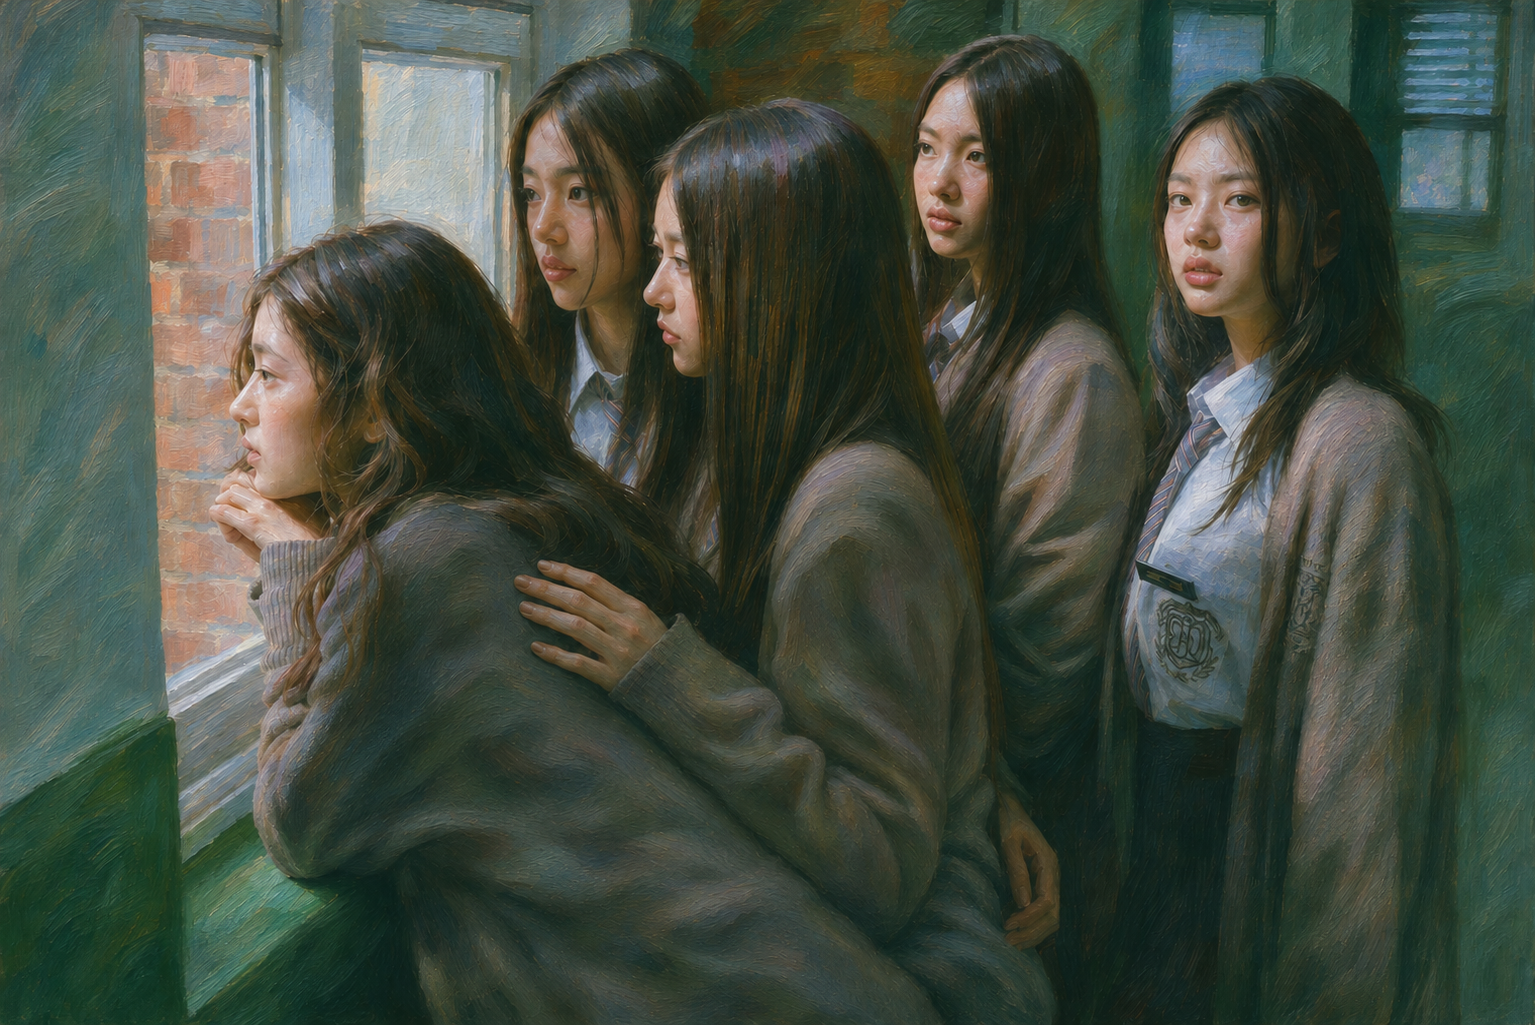
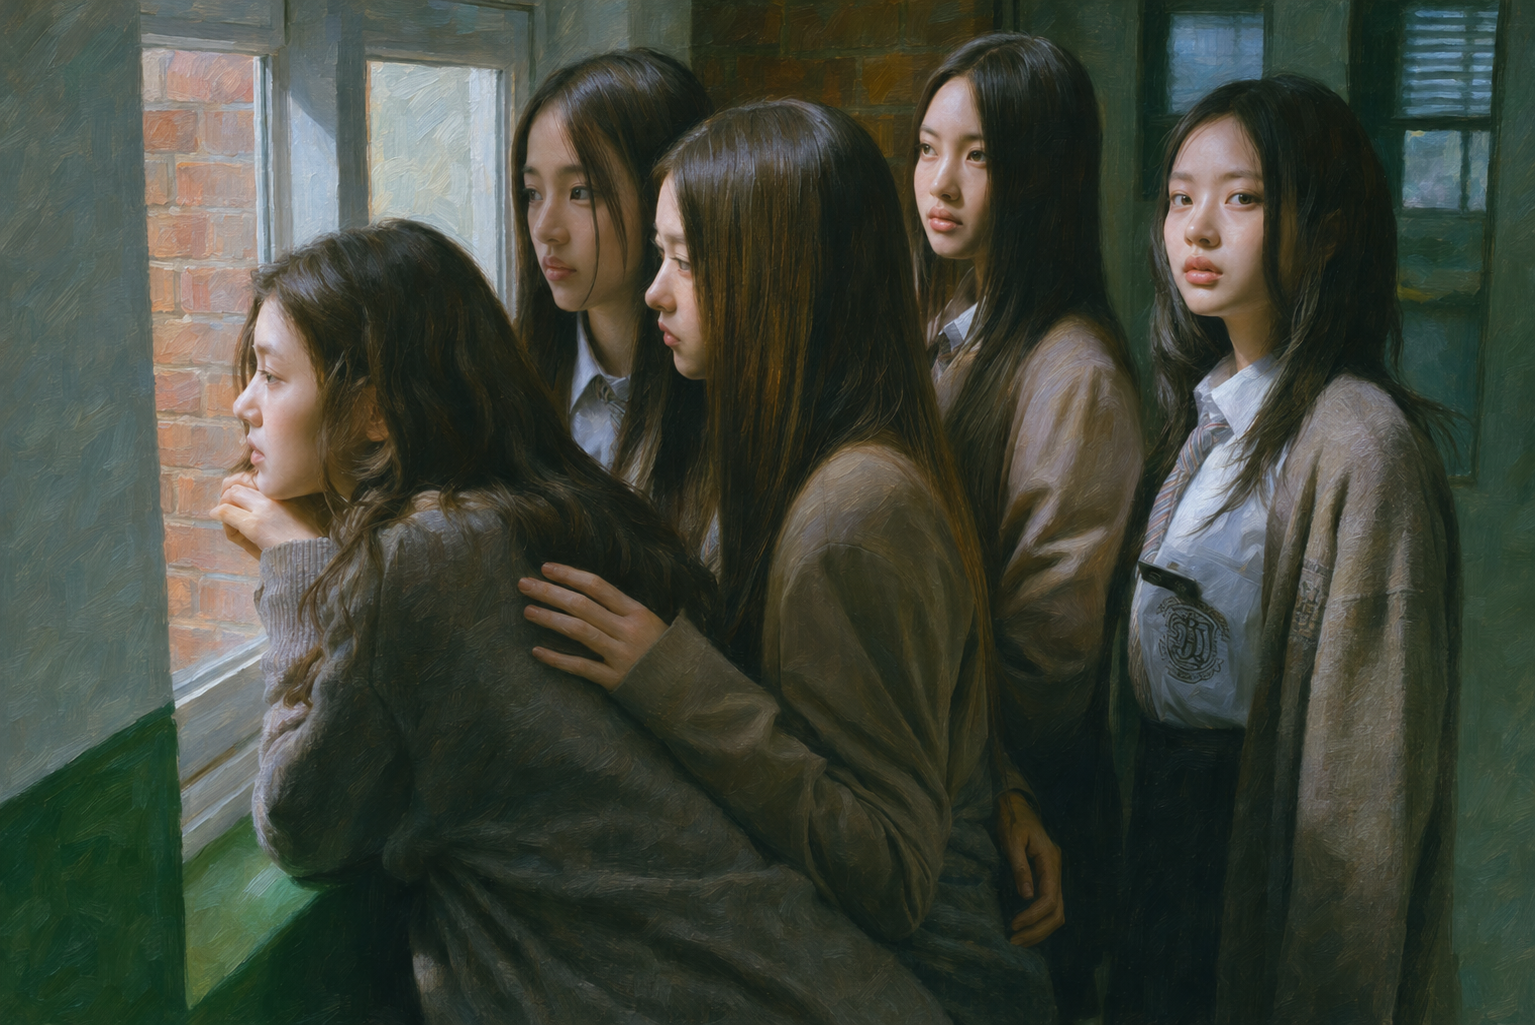
Prioritize face fidelity in skill and example

diff --git a/SKILL.md b/SKILL.md
@@ -1,27 +1,35 @@
 ---
 name: painterly-oil-style
-description: Apply a richly layered, luminous oil-illustration look inspired by the user's reference images to an existing image while preserving its subject and composition. Use when the user asks for this oil-painting style or invokes this skill.
+description: Apply a richly layered, luminous oil-illustration look to an existing image while preserving its subject, composition, and facial likeness. Use when the user asks for this oil-painting style or invokes this skill.
 ---
 
 # Painterly oil style
 
-Transform the supplied image into a richly painted illustration. Aim for a lyrical oil illustration where carefully observed forms coexist with visible, expressive brush texture. Preserve the source's subject, identity, pose, number of people or objects, arrangement, framing, and meaningful details unless the user asks for a change. Do not introduce the reference images' characters, butterflies, flowers, jewelry, or dark vignette into unrelated images.
+Transform the supplied image into a richly painted illustration with carefully observed forms and expressive but integrated paint texture. Preserve the source's subject, identity, pose, number of people or objects, arrangement, framing, and meaningful details unless the user asks for a change. Do not introduce the style references' characters, butterflies, flowers, jewelry, or dark vignette into unrelated images.
 
 Use an image-editing tool that accepts the source image and edit it directly. Follow the image tool's instructions for including the source image and retaining transparency where applicable. If no source image is available, ask for one. Choose the available image tool according to its own instructions.
 
-Use a moderately textured oil finish by default. Preserve layered pigments, subtle canvas tooth, tonal variation, and tactile painted surfaces. Let brushwork follow the form, but integrate strokes into color and shading so they read as paint texture rather than drawn lines. Keep the texture visible, while softening sharp, high-contrast, repetitive, or scratch-like stroke edges—especially on clothing and broad shadow areas. Avoid both a flat filter-like finish and uniformly strong impasto.
+## Portrait and face fidelity
 
-Keep faces and skin softly modeled with restrained texture. In hair, clothing, and backgrounds, retain richer brush texture and color variation, but vary stroke length and soften the marks so they do not form obvious parallel stripes or contour outlines. Preserve the source lighting, mood, and color relationships; mix neighboring hues into shadows rather than flattening them to black. Use warm highlights or jewel tones only when they fit the original scene.
+For photographs and portraits, preserving identity and facial likeness takes priority over the strength of the painterly effect. Keep each person's recognizable facial geometry and distinguishing features, including face shape, eyes, nose, mouth, expression, gaze, and apparent age. Do not beautify, redesign, stylize, or homogenize faces unless requested. Preserve the number and placement of people.
+
+Keep faces and skin softly modeled with smooth tonal transitions. By default, use almost no visible brush marks, canvas grain, or impasto on skin and small facial features. If stronger painterly texture is requested, increase it first in hair, clothing, and background; keep face texture restrained unless the user explicitly asks otherwise. When a choice must be made, reduce painterly intensity on faces rather than changing their recognizable features. Image tools may still introduce some likeness drift; inspect the result and describe any remaining limitation accurately.
+
+## Paint treatment
+
+Use a moderately textured oil finish by default. Preserve layered pigments, subtle canvas tooth, tonal variation, and tactile painted surfaces. Let strokes follow form, but integrate them into color and shading so they read as paint texture rather than drawn lines. Keep the texture visible while softening sharp, high-contrast, repetitive, or scratch-like marks, especially on clothing and broad shadow areas. Avoid both a flat filter-like finish and uniformly strong impasto.
+
+Use soft curved transitions across faces, longer but varied strokes through hair and clothing, and broad, looser strokes in backgrounds. Avoid obvious parallel stripes, contour outlines, and repeated scratch marks. Preserve the source lighting, mood, and color relationships; mix neighboring hues into shadows rather than flattening them to black. Use warm highlights or jewel tones only when they fit the original scene.
 
 Adapt the treatment to the medium:
 
-- For photographs, retain recognizable faces, expressions, proportions, and scene geometry. Keep skin natural and softly blended; allow more texture in hair, clothing, and background while integrating strokes into the surfaces.
+- For photographs, retain recognizable facial likeness and scene geometry; keep skin smooth and focus richer texture on hair, clothing, and background.
 - For existing illustrations, preserve the original design language, linework, proportions, and character features while adding oil-like layers.
 - For landscapes and objects, retain silhouettes, perspective, and material identity; adapt stroke direction and density to each surface.
 
-If the user asks for a stronger painterly effect, increase pigment variation, stroke visibility, and canvas texture gradually. If they ask for a softer finish, blend stroke edges more and reduce contrast while retaining some layered texture. Do not impose a different genre or face design.
+If the user asks for a stronger painterly effect, increase pigment variation, stroke visibility, and canvas texture gradually, concentrating texture away from faces. If they ask for a softer finish, blend stroke edges more and reduce contrast while retaining some layered texture. Do not impose a different genre or face design.
 
 Treat the supplied style references as a range: polished painted rendering, delicate light and shadow, and expressive textured brushwork. Choose the balance that fits the source and user preference. Preserve meaningful in-image text, logos, or symbols when they are part of the depicted subject or the user asks to keep them. Watermarks, URLs, and incidental source credits may be omitted unless the user asks to retain them; never invent replacement text or marks.
 
-After editing, check that the main subjects are present in the right number and arrangement, the composition, source lighting, and mood remain recognizable, and no unintended objects or text appeared. Also check that paint texture remains visible without forming distracting repeated lines. If a clear mismatch is fixable, make one targeted refinement. Present the resulting image and briefly note any material limitation.
+After editing, check subject count, recognizable facial features and expressions, arrangement, composition, source lighting, and mood. Check that face texture remains soft and that paint texture elsewhere does not form distracting repeated lines. If a clear mismatch is fixable, make one targeted refinement. If a tool limitation prevents exact likeness, state that briefly. Present the resulting image and note any material limitation.
 

diff --git a/README.md b/README.md
@@ -1,10 +1,10 @@
 # painterly-oil-style
 
-이미지의 인물과 구도, 분위기를 유지하면서 은은한 붓질과 색층이 살아 있는 유화풍으로 변환하는 Codex 스킬입니다. 기본 표현은 피부와 주요 형태를 부드럽게 묘사하고, 옷·머리카락·배경에는 선처럼 튀지 않는 회화 질감을 더합니다.
+이미지의 인물과 구도, 분위기를 유지하면서 층이 있는 색감과 은은한 붓질로 유화풍을 적용하는 Codex 스킬입니다. 사진에서는 얼굴의 정체성과 표정을 페인팅 질감보다 우선합니다. 얼굴과 피부는 매끄럽게 표현하고, 질감은 주로 머리카락·옷·배경에 더합니다.
 
 ## 예시
 
-아래 이미지는 스킬을 적용한 결과입니다. 다섯 인물의 배치와 창가의 차분한 분위기를 유지하면서, 색층과 붓질을 유화풍으로 표현했습니다.
+아래는 스킬을 적용한 예시입니다. 얼굴은 부드럽게 묘사하고, 옷과 배경에는 선처럼 튀지 않는 색층과 회화 질감을 남겼습니다.
 
 ![painterly-oil-style 적용 예시](example-painterly-oil-style.png)
 
@@ -28,18 +28,18 @@ Copy-Item .\SKILL.md (Join-Path $skillDir 'SKILL.md') -Force
 Codex에서 변환할 이미지를 첨부하고 스킬을 호출하세요.
 
 ```text
-$painterly-oil-style 이 사진을 부드럽고 질감 있는 유화풍으로 바꿔줘.
+$painterly-oil-style 이 사진을 부드러운 유화풍으로 바꿔줘.
 ```
 
-특별히 지정하지 않으면 스킬은 원본의 인물 수, 정체성, 표정, 포즈, 배치, 프레이밍, 조명과 분위기를 유지하려고 합니다. 이미지 종류에 맞춰 사진·일러스트·풍경·사물의 형태를 살리고, 붓질은 색과 명암에 자연스럽게 섞이도록 합니다.
+기본적으로 인물 수, 얼굴의 특징과 표정, 포즈, 배치, 프레이밍, 원본 조명과 분위기를 유지하도록 합니다. 얼굴에는 눈에 띄는 붓자국과 캔버스 결을 거의 쓰지 않고, 회화 질감은 머리카락·옷·배경에 집중합니다.
 
-## 결과 조절 예시
+## 표현 조절 예시
 
-원하는 표현을 요청에 덧붙여 강도를 조절할 수 있습니다.
+- **얼굴 보존 우선:** “인원수와 얼굴 특징·표정을 원본대로 유지하고, 피부에는 붓자국이 거의 보이지 않게 해줘.”
+- **질감은 남기고 선 자국만 완화:** “유화 질감은 유지하되 선처럼 보이는 붓자국을 부드럽게 섞어줘.”
+- **붓질을 조금 더 드러내기:** “옷과 배경의 붓질과 색층을 조금 더 표현적으로 해줘.”
+- **더 부드러운 마감:** “전체 질감은 약간 줄이되 색층은 남겨줘.”
 
-- **질감은 유지하고 선 자국만 부드럽게:** “유화 질감은 남기되 선처럼 보이는 붓자국을 더 은은하게 해줘.”
-- **붓질을 더 드러내기:** “붓질과 색층을 조금 더 표현적으로 해줘.”
-- **더 부드러운 마감:** “표면 질감을 줄이고 색 경계를 부드럽게 섞어줘.”
-- **원본 세부 요소 유지:** “인원수, 구도, 표정, 의상과 조명을 최대한 유지해줘.”
+이미지 편집 도구에 따라 얼굴이 원본과 조금 달라질 수 있습니다. 결과에서 얼굴 특징과 표정을 확인하고, 차이가 보이면 얼굴 보존을 우선한 수정 요청을 덧붙이세요. 장면 안에서 의미가 있는 글자와 로고는 요청에 따라 보존할 수 있습니다. 워터마크나 URL은 따로 남겨달라는 요청이 없다면 생략될 수 있습니다.
 
-장면 안에서 의미가 있는 글자와 로고는 요청에 따라 보존할 수 있습니다. 워터마크나 URL은 별도로 남겨달라는 요청이 없다면 결과에서 생략될 수 있습니다.
+
